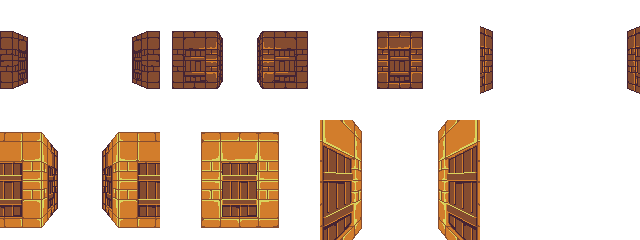
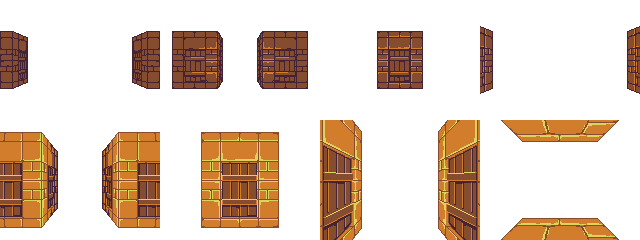
Map Updates Cheats added

Changed region(s): [[0.7812, 0.9042, 0.9688, 1.0], [0.7812, 0.4958, 0.9688, 0.6125]]

diff --git a/release/atlas.js b/release/atlas.js
@@ -3,7 +3,7 @@
  Collection of maps and transition data
  */
 
-var MAP_COUNT = 8;
+var MAP_COUNT = 10;
 
 var atlas = new Object();
 atlas.maps = new Array();
@@ -170,5 +170,46 @@ atlas.maps[7].tiles = [
   [ 0,15,15,15, 2, 2, 2, 2, 2, 2, 2, 2, 2, 2, 2]  
 ];
 atlas.maps[7].exits[0] = {exit_x:1, exit_y:5, dest_map:6, dest_x:13, dest_y:7};
+atlas.maps[7].exits[1] = {exit_x:10, exit_y:5, dest_map:8, dest_x:1, dest_y:7};
 
+atlas.maps[8].name = "Mausoleum";
+atlas.maps[8].width = 16;
+atlas.maps[8].height = 15;
+atlas.maps[8].background = 2;
+atlas.maps[8].tiles = [
+  [ 0, 0, 0, 0, 2, 2, 2, 2, 2, 2, 2, 2, 2, 2, 2, 2],
+  [ 0, 0, 2, 2, 2, 7, 5, 5, 5, 5, 5, 5, 7, 0, 0, 2],
+  [ 0, 0, 2, 5, 3, 5, 5, 5, 0, 0, 5, 5, 5, 5, 0, 2],
+  [ 0, 0, 2, 2, 2, 2, 2, 5, 2, 2, 5, 2, 2, 5, 2, 2],
+  [ 0, 0, 0, 0, 0, 2, 2, 5, 2, 2, 5, 2, 7, 5, 2, 0],
+  [ 2, 2, 2, 2, 2, 2, 5, 5, 5, 5, 5, 5, 2, 5, 2, 0],
+  [ 2, 5, 7, 5, 2, 2, 5, 6, 6, 6, 6, 5, 2, 5, 7, 2],
+  [ 3, 5, 5, 5, 5, 5, 5, 6, 6, 6, 6, 5, 5, 5, 5, 3],
+  [ 2, 5, 7, 5, 2, 2, 5, 6, 6, 6, 6, 5, 2, 5, 7, 2],
+  [ 2, 2, 2, 2, 2, 2, 5, 5, 5, 5, 5, 5, 2, 5, 2, 0],
+  [ 0, 0, 0, 0, 0, 2, 2, 5, 2, 2, 5, 2, 7, 5, 2, 0],
+  [ 0, 0, 2, 2, 2, 2, 2, 5, 2, 2, 5, 2, 2, 5, 2, 2],
+  [ 0, 0, 2, 5, 3, 5, 5, 5, 0, 0, 5, 5, 5, 5, 0, 2],
+  [ 0, 0, 2, 2, 2, 7, 5, 5, 5, 5, 5, 5, 7, 0, 0, 2],
+  [ 0, 0, 0, 0, 2, 2, 2, 2, 2, 2, 2, 2, 2, 2, 2, 2]
+];
+atlas.maps[8].exits[0] = {exit_x:0, exit_y:7, dest_map:7, dest_x:9, dest_y:5};
+atlas.maps[8].exits[1] = {exit_x:15, exit_y:7, dest_map:9, dest_x:1, dest_y:5};
 
+atlas.maps[9].name = "Dead Walkways";
+atlas.maps[9].width = 13;
+atlas.maps[9].height = 10;
+atlas.maps[9].background = 2;
+atlas.maps[9].tiles = [
+  [ 0, 0, 0, 0, 0, 0, 1, 0, 0, 1, 0, 0, 0],
+  [ 0, 0, 0, 0, 0, 0, 1, 2, 2, 1, 0, 0, 0],
+  [ 0, 4, 0, 0, 4, 0, 1, 5, 5, 1, 0, 4, 0],
+  [ 0, 0, 0, 1, 0, 0, 1, 2, 2, 1, 0, 0, 0],
+  [ 2, 0, 0, 1, 2, 2, 1, 0, 0, 1,13,14,13],
+  [ 3, 1, 1, 1, 5, 5, 1, 0, 0, 1, 6, 6,14],
+  [ 2, 0, 0, 1, 2, 2, 1, 0, 0, 1,14,13,14],
+  [ 0, 0, 0, 1, 0, 0, 1, 0, 0, 0, 0, 0, 0],
+  [ 0, 4, 0, 0, 0, 0, 1, 0, 0, 0, 0, 4, 0],
+  [ 0, 0, 0, 0, 1, 1, 1, 1, 1, 0, 0, 0, 0]
+];
+atlas.maps[9].exits[0] = {exit_x:0, exit_y:5, dest_map:8, dest_x:14, dest_y:7};

diff --git a/release/utils.js b/release/utils.js
@@ -54,3 +54,51 @@ function getCookie(c_name)
   return c_value;
 }
 
+/**
+ * Special case function
+ * If somehow the player is stuck,
+ * Use this from a command console
+ */
+function stuck() {
+  avatar.x = 1;
+  avatar.y = 1;
+  avatar.facing = "south";
+  avatar.moved = false;
+  avatar.map_id = 0;
+  mazemap_set(0);
+  redraw = true;
+}
+
+/**
+ * Various cheats and debugging routines
+ */
+function cheat_gold(gold_amt) {
+  avatar.gold += gold_amt;
+}
+
+function cheat_weapon(weapon_id) {
+  if (weapon_id >= 0 && weapon_id <= 7) {
+    avatar.weapon = weapon_id;
+  }
+  redraw = true;
+}
+
+function cheat_armor(armor_id) {
+  if (armor_id >= 0 && armor_id <= 7) {
+    avatar.armor = armor_id;
+  }
+  redraw = true;
+}
+
+function cheat_spell(spell_id) {
+  if (spell_id >= 0 && spell_id <= 6) {
+    avatar.spellbook = spell_id;
+  }
+  redraw = true;
+}
+
+function cheat_rest() {
+  avatar.hp = avatar.max_hp;
+  avatar.mp = avatar.max_mp;
+  redraw = true;
+}
